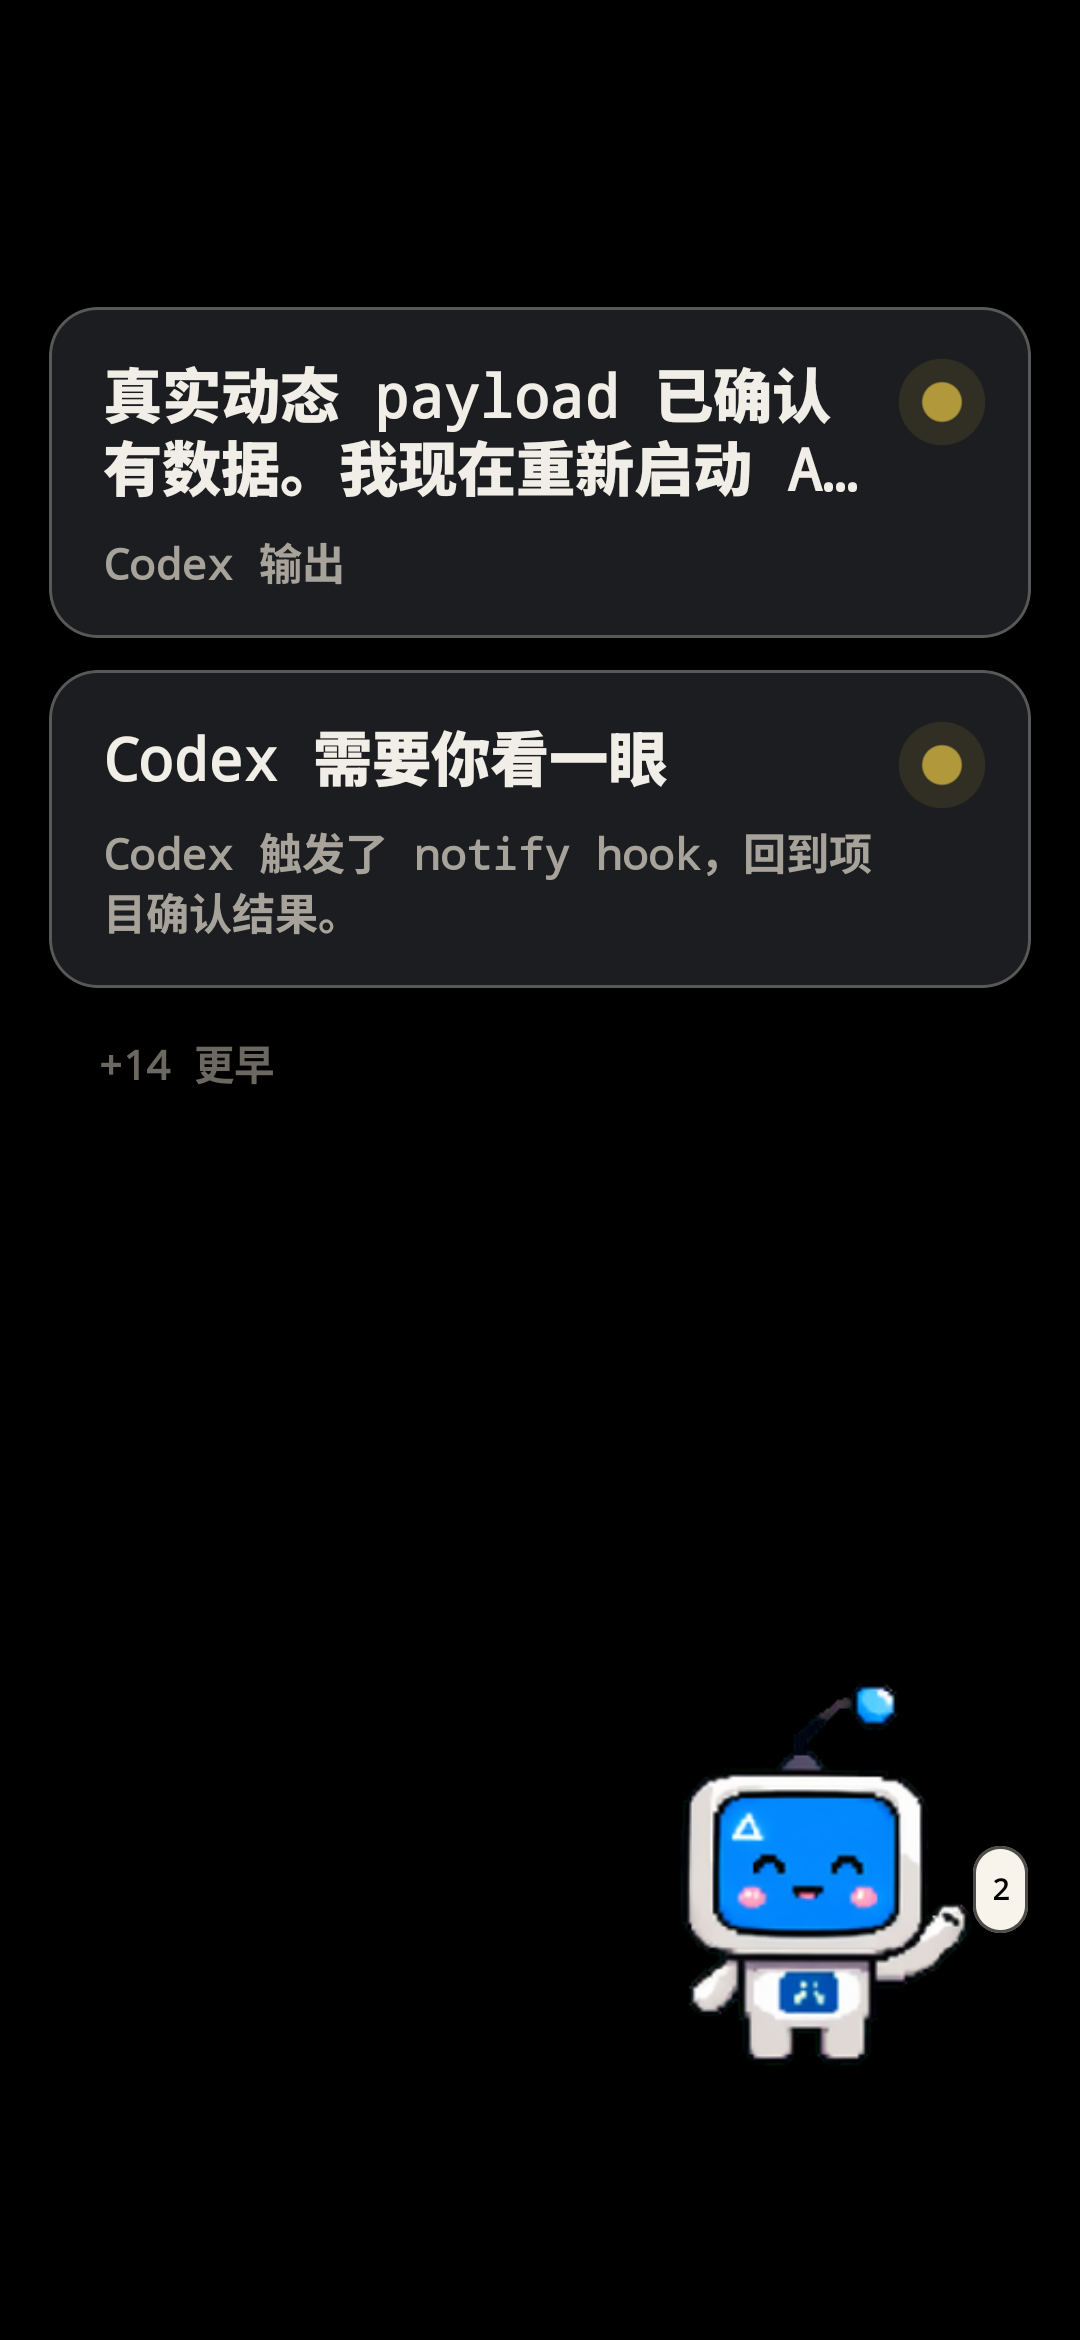
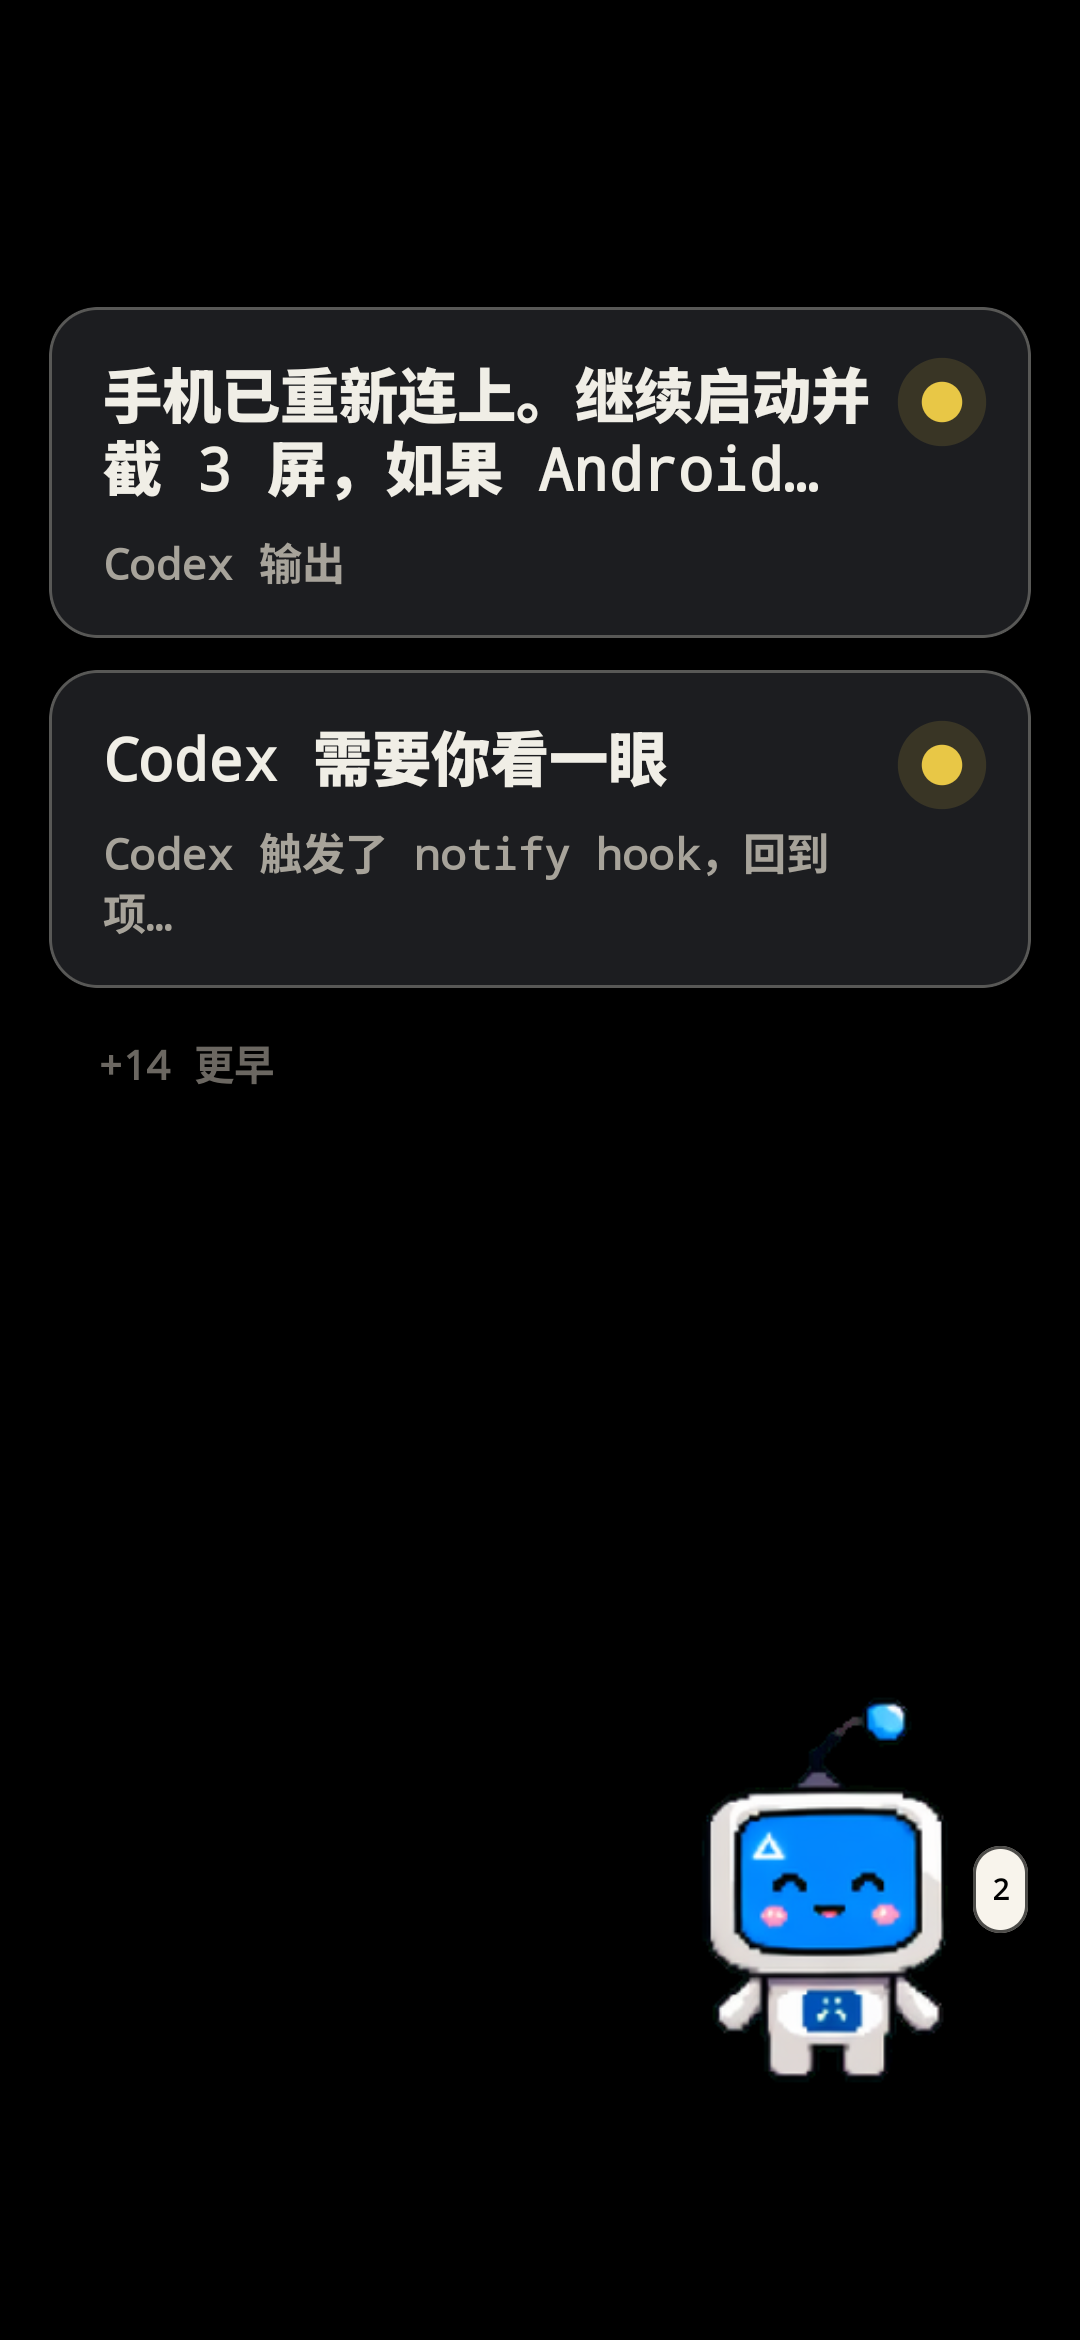
fix: 保留项目状态并补发布安装流程

diff --git a/mac-companion/Sources/CodexTrafficSelfTest/main.swift b/mac-companion/Sources/CodexTrafficSelfTest/main.swift
@@ -17,6 +17,7 @@ struct CodexTrafficSelfTest {
         try testTruncatesProjectsToFitByteBudgetAndReportsMoreCount()
         try testTruncatesFeedToFitByteBudgetAndReportsMoreCount()
         try testPayloadPreservesRealtimeFeedBeforeProjectOverflow()
+        try testPayloadPreservesProjectsWhenFeedIsLarge()
         try testSynthesizesFeedFromThreadBubble()
         try testThreadFeedFallsBackToThreadPreview()
         try testSynthesizesRealtimeFeedFromSnapshot()
@@ -338,10 +339,56 @@ struct CodexTrafficSelfTest {
         }
 
         try expect(data.count <= 360, "feed priority max bytes")
-        try expect(encodedFeed.count >= 3, "feed priority preserves live rows")
+        try expect(encodedFeed.count >= 2, "feed priority preserves live rows")
         try expect(encodedProjects.count < projects.count, "feed priority trims projects first")
         try expect(moreCount == projects.count - encodedProjects.count, "feed priority project more count")
         try expect(moreFeedCount == feedItems.count - encodedFeed.count, "feed priority more count")
+    }
+
+    private static func testPayloadPreservesProjectsWhenFeedIsLarge() throws {
+        let projects = (0..<6).map { index in
+            ProjectStatus(
+                id: String(format: "%08x", index),
+                name: "project-\(index)-with-long-name",
+                light: index == 0 ? .green : .yellow,
+                ageSeconds: index,
+                reason: index == 0 ? .work : .recent
+            )
+        }
+        let feedItems = (0..<6).map { index in
+            PetFeedItem(
+                projectID: String(format: "%08x", index),
+                title: "这是一条非常长的 Codex thread 气泡标题 \(index)，用于模拟真实输出挤占 BLE payload",
+                body: "这是一条非常长的 Codex 输出正文 \(index)，用于模拟第二屏真实动态",
+                light: .yellow,
+                ageSeconds: index,
+                reason: .recent
+            )
+        }
+        let status = TrafficStatus(
+            version: 1,
+            timestamp: Date(timeIntervalSince1970: 1_780_039_000),
+            overall: .yellow,
+            projects: projects,
+            moreCount: 0,
+            feedItems: feedItems,
+            moreFeedCount: 0
+        )
+
+        let data = try PayloadEncoder(maxBytes: 480).encode(status)
+        guard let object = try JSONSerialization.jsonObject(with: data) as? [String: Any],
+              let encodedProjects = object["p"] as? [[Any]],
+              let encodedFeed = object["f"] as? [[Any]],
+              let moreCount = object["m"] as? Int,
+              let moreFeedCount = object["n"] as? Int else {
+            throw SelfTestError.failed("project preserving payload shape")
+        }
+
+        try expect(data.count <= 480, "project preserving max bytes")
+        try expect(encodedProjects.count >= 3, "payload keeps first and third screen populated")
+        try expect(encodedFeed.count >= 1, "payload keeps realtime feed populated")
+        try expect(moreCount == projects.count - encodedProjects.count, "project preserving more count")
+        try expect(moreFeedCount == feedItems.count - encodedFeed.count, "project preserving feed more count")
     }
 
     private static func testSynthesizesFeedFromThreadBubble() throws {

diff --git a/mac-companion/Sources/CodexTrafficCore/PayloadEncoder.swift b/mac-companion/Sources/CodexTrafficCore/PayloadEncoder.swift
@@ -3,10 +3,12 @@ import Foundation
 public struct PayloadEncoder: Sendable {
     public let maxBytes: Int
     public let minimumFeedRows: Int
+    public let minimumProjectRows: Int
 
-    public init(maxBytes: Int = 480, minimumFeedRows: Int = 3) {
+    public init(maxBytes: Int = 480, minimumFeedRows: Int = 2, minimumProjectRows: Int = 3) {
         self.maxBytes = maxBytes
         self.minimumFeedRows = minimumFeedRows
+        self.minimumProjectRows = minimumProjectRows
     }
 
     public func encode(_ status: TrafficStatus) throws -> Data {
@@ -26,12 +28,17 @@ public struct PayloadEncoder: Sendable {
             if data.count <= maxBytes {
                 return data
             }
+            if projectRows.count < min(minimumProjectRows, status.projects.count), !feedRows.isEmpty {
+                feedRows.removeLast()
+                moreFeedCount = status.moreFeedCount + status.feedItems.count - feedRows.count
+                continue
+            }
             if feedRows.count > minimumFeedRows {
                 feedRows.removeLast()
                 moreFeedCount = status.moreFeedCount + status.feedItems.count - feedRows.count
                 continue
             }
-            if !projectRows.isEmpty {
+            if projectRows.count > min(minimumProjectRows, status.projects.count) {
                 projectRows.removeLast()
                 moreCount = status.moreCount + status.projects.count - projectRows.count
                 continue
@@ -39,6 +46,11 @@ public struct PayloadEncoder: Sendable {
             if !feedRows.isEmpty {
                 feedRows.removeLast()
                 moreFeedCount = status.moreFeedCount + status.feedItems.count - feedRows.count
+                continue
+            }
+            if !projectRows.isEmpty {
+                projectRows.removeLast()
+                moreCount = status.moreCount + status.projects.count - projectRows.count
                 continue
             }
             throw PayloadEncodingError.payloadCannotFit(maxBytes: maxBytes)
@@ -77,7 +89,7 @@ public struct PayloadEncoder: Sendable {
     private func row(_ project: ProjectStatus) -> [Any] {
         [
             project.id,
-            project.name,
+            clipped(project.name, limit: 24),
             project.light.rawValue,
             project.ageSeconds,
             project.reason.rawValue
@@ -87,12 +99,19 @@ public struct PayloadEncoder: Sendable {
     private func row(_ item: PetFeedItem) -> [Any] {
         [
             item.projectID,
-            item.title,
-            item.body,
+            clipped(item.title, limit: 30),
+            clipped(item.body, limit: 26),
             item.light.rawValue,
             item.ageSeconds,
             item.reason.rawValue
         ]
+    }
+
+    private func clipped(_ value: String, limit: Int) -> String {
+        guard value.count > limit else {
+            return value
+        }
+        return String(value.prefix(max(1, limit - 1))) + "…"
     }
 
     private func jsonValue(_ value: Any) throws -> String {

diff --git a/README.md b/README.md
@@ -3,13 +3,27 @@
 把一台旧 Android 手机变成 Codex 项目状态守望台。  
 Mac companion 读取本机 Codex 结构化状态并广播，Android 展示桌宠、动态流和项目信号 HUD，帮助你在多项目并行时快速判断是否需要介入。
 
-## 30 秒启动
+## 普通用户安装
 
-1. 启动 Mac companion（BLE 正式运行）：
-   `cd mac-companion && ./scripts/build-app.sh && open "dist/Codex Watchtower.app"`
-2. 手机安装调试包：
-   `source scripts/use-android-toolchain.sh && cd android && ./gradlew installDebug`
-3. 手机打开 app，授予蓝牙权限，确认右上角显示 `已连接`。
+Codex 守望台需要两个 App 配合：
+
+1. Mac 上运行 `Codex Watchtower.app`，负责读取本机 Codex 状态并通过 BLE/HTTP 广播。
+2. Android 手机上安装 `CodexWatchtower.apk`，负责显示桌宠、动态和项目信号。
+
+下载地址见 GitHub Releases：
+
+```text
+https://github.com/HaoRangQi/CodexWatchtower/releases
+```
+
+首次使用：
+
+1. 下载 `CodexWatchtower-macOS.zip`，解压后打开 `Codex Watchtower.app`，按 macOS 提示允许蓝牙权限。
+2. 下载 `CodexWatchtower.apk`，复制到 Android 手机并安装；如系统拦截，允许“安装未知来源应用”。
+3. 手机打开 `Codex 守望台`，授予附近设备/蓝牙权限，右上角显示 `已连接` 即可。
+4. 保持 Mac 和 Android 在附近；BLE 优先，HTTP fallback 用于同局域网调试。
+
+开发者从源码构建见 [运行与调试手册](docs/RUNBOOK.md)。
 
 ## 三屏预览
 

diff --git a/docs/RUNBOOK.md b/docs/RUNBOOK.md
@@ -1,5 +1,23 @@
 # 运行与调试手册
 
+## 给普通用户的安装包
+
+发布版不要求用户从源码安装。GitHub Release 应包含两个文件：
+
+```text
+CodexWatchtower-macOS.zip
+CodexWatchtower.apk
+```
+
+用户流程：
+
+1. Mac 下载并解压 `CodexWatchtower-macOS.zip`，打开 `Codex Watchtower.app`，允许蓝牙权限。
+2. Android 下载并安装 `CodexWatchtower.apk`，允许“附近设备/蓝牙”权限。
+3. 手机打开 `Codex 守望台`，确认右上角显示 `已连接`。
+4. 第一屏显示项目列表，左滑第二屏看 Codex 动态，再左滑第三屏看项目信号 HUD。
+
+Mac companion 是必须运行的；Android App 只负责展示，不能单独读取 Mac 上的 Codex 状态。
+
 ## 工具链准备
 
 本仓库默认使用共享 Android 命令行工具链：
@@ -105,6 +123,16 @@ cd android
 ```text
 android/app/build/outputs/apk/debug/app-debug.apk
 ```
+
+Release APK 路径：
+
+```text
+android/app/build/outputs/apk/release/app-release.apk
+```
+
+当前 v1 使用未上架 APK 分发，Android 安装时需要允许未知来源。发布产物会重命名为 `CodexWatchtower.apk`。
+为保证 GitHub 下载后能直接安装，release 构建暂用 Android debug signing config；这不是 Play Store
+生产签名，后续上架或长期分发前需要替换为正式 release keystore。
 
 ## 手动验收清单
 

diff --git a/docs/current/ARCHITECTURE.md b/docs/current/ARCHITECTURE.md
@@ -35,8 +35,11 @@ Mac 端有两个数据来源：
 截图 OCR，也不读取隐藏思维。companion 不读取 `history.jsonl` 或大日志；rollout 只尾读一小段，
 用于生成短标题和短正文。状态判断仍是启发式，不等同 Codex 私有内部运行态，也不是完整聊天镜像。
 新 companion 会在 BLE payload 中发送 `f/n` 动态字段；payload 空间紧张时优先保留最多 3 条动态，
-再裁剪项目列表。Android parser 兼容旧 payload，没有 `f/n` 时会从 `p` 项目行派生同语义的动态卡片，
-避免手机端出现空白第二屏。
+并尽量保留至少 3 条项目行，再继续裁剪动态或项目。Android parser 兼容旧 payload，没有 `f/n` 时会从
+`p` 项目行派生同语义的动态卡片，避免手机端出现空白第二屏，也避免第一屏和第三屏没有项目数据。
+
+普通用户需要安装两个发布产物：Mac companion `.app` 和 Android `.apk`。Mac companion 是数据源，
+Android App 是显示端；Android 单独安装无法读取 Mac 上的 Codex 本地状态。
 
 ## BLE 契约
 

diff --git a/docs/CHANGELOG.md b/docs/CHANGELOG.md
@@ -2,6 +2,9 @@
 
 ## 2026-05-31
 
+- 修复 payload 裁剪策略，避免第二屏动态挤掉全部项目行，恢复第一屏与第三屏项目刷新。
+- 补充普通用户安装说明，明确 Mac companion 与 Android App 都是必需发布产物。
+- 准备 GitHub Release 下载路径与发布包命名：`CodexWatchtower-macOS.zip`、`CodexWatchtower.apk`。
 - 更新三屏预览截图，同步 `pics/` 与 `docs/images/`。
 - 同步 `PROTOCOL.md`、`docs/RUNBOOK.md`、`docs/current/ARCHITECTURE.md`，记录第二屏优先读取 Codex thread 气泡与 `rollout_path` 最近事件。
 - 新增 `docs/adr/0006-thread-bubble-feed-source.md`，记录 thread 气泡数据源决策。

diff --git a/PROTOCOL.md b/PROTOCOL.md
@@ -33,8 +33,9 @@
 then Codex App thread bubble data from `threads.title` / `threads.preview` /
 `threads.rollout_path`, then companion-synthesized rows from Codex SQLite
 snapshots. When the 480-byte budget is tight, the encoder keeps up to 3 feed
-rows before trimming project rows so the second screen still has live content.
-It does not carry hidden reasoning, `history.jsonl`, or large logs.
+rows and at least 3 project rows when possible, so the second screen has live
+content while the first and third screens still have project data. It does not
+carry hidden reasoning, `history.jsonl`, or large logs.
 
 ## Realtime Event Spool
 
